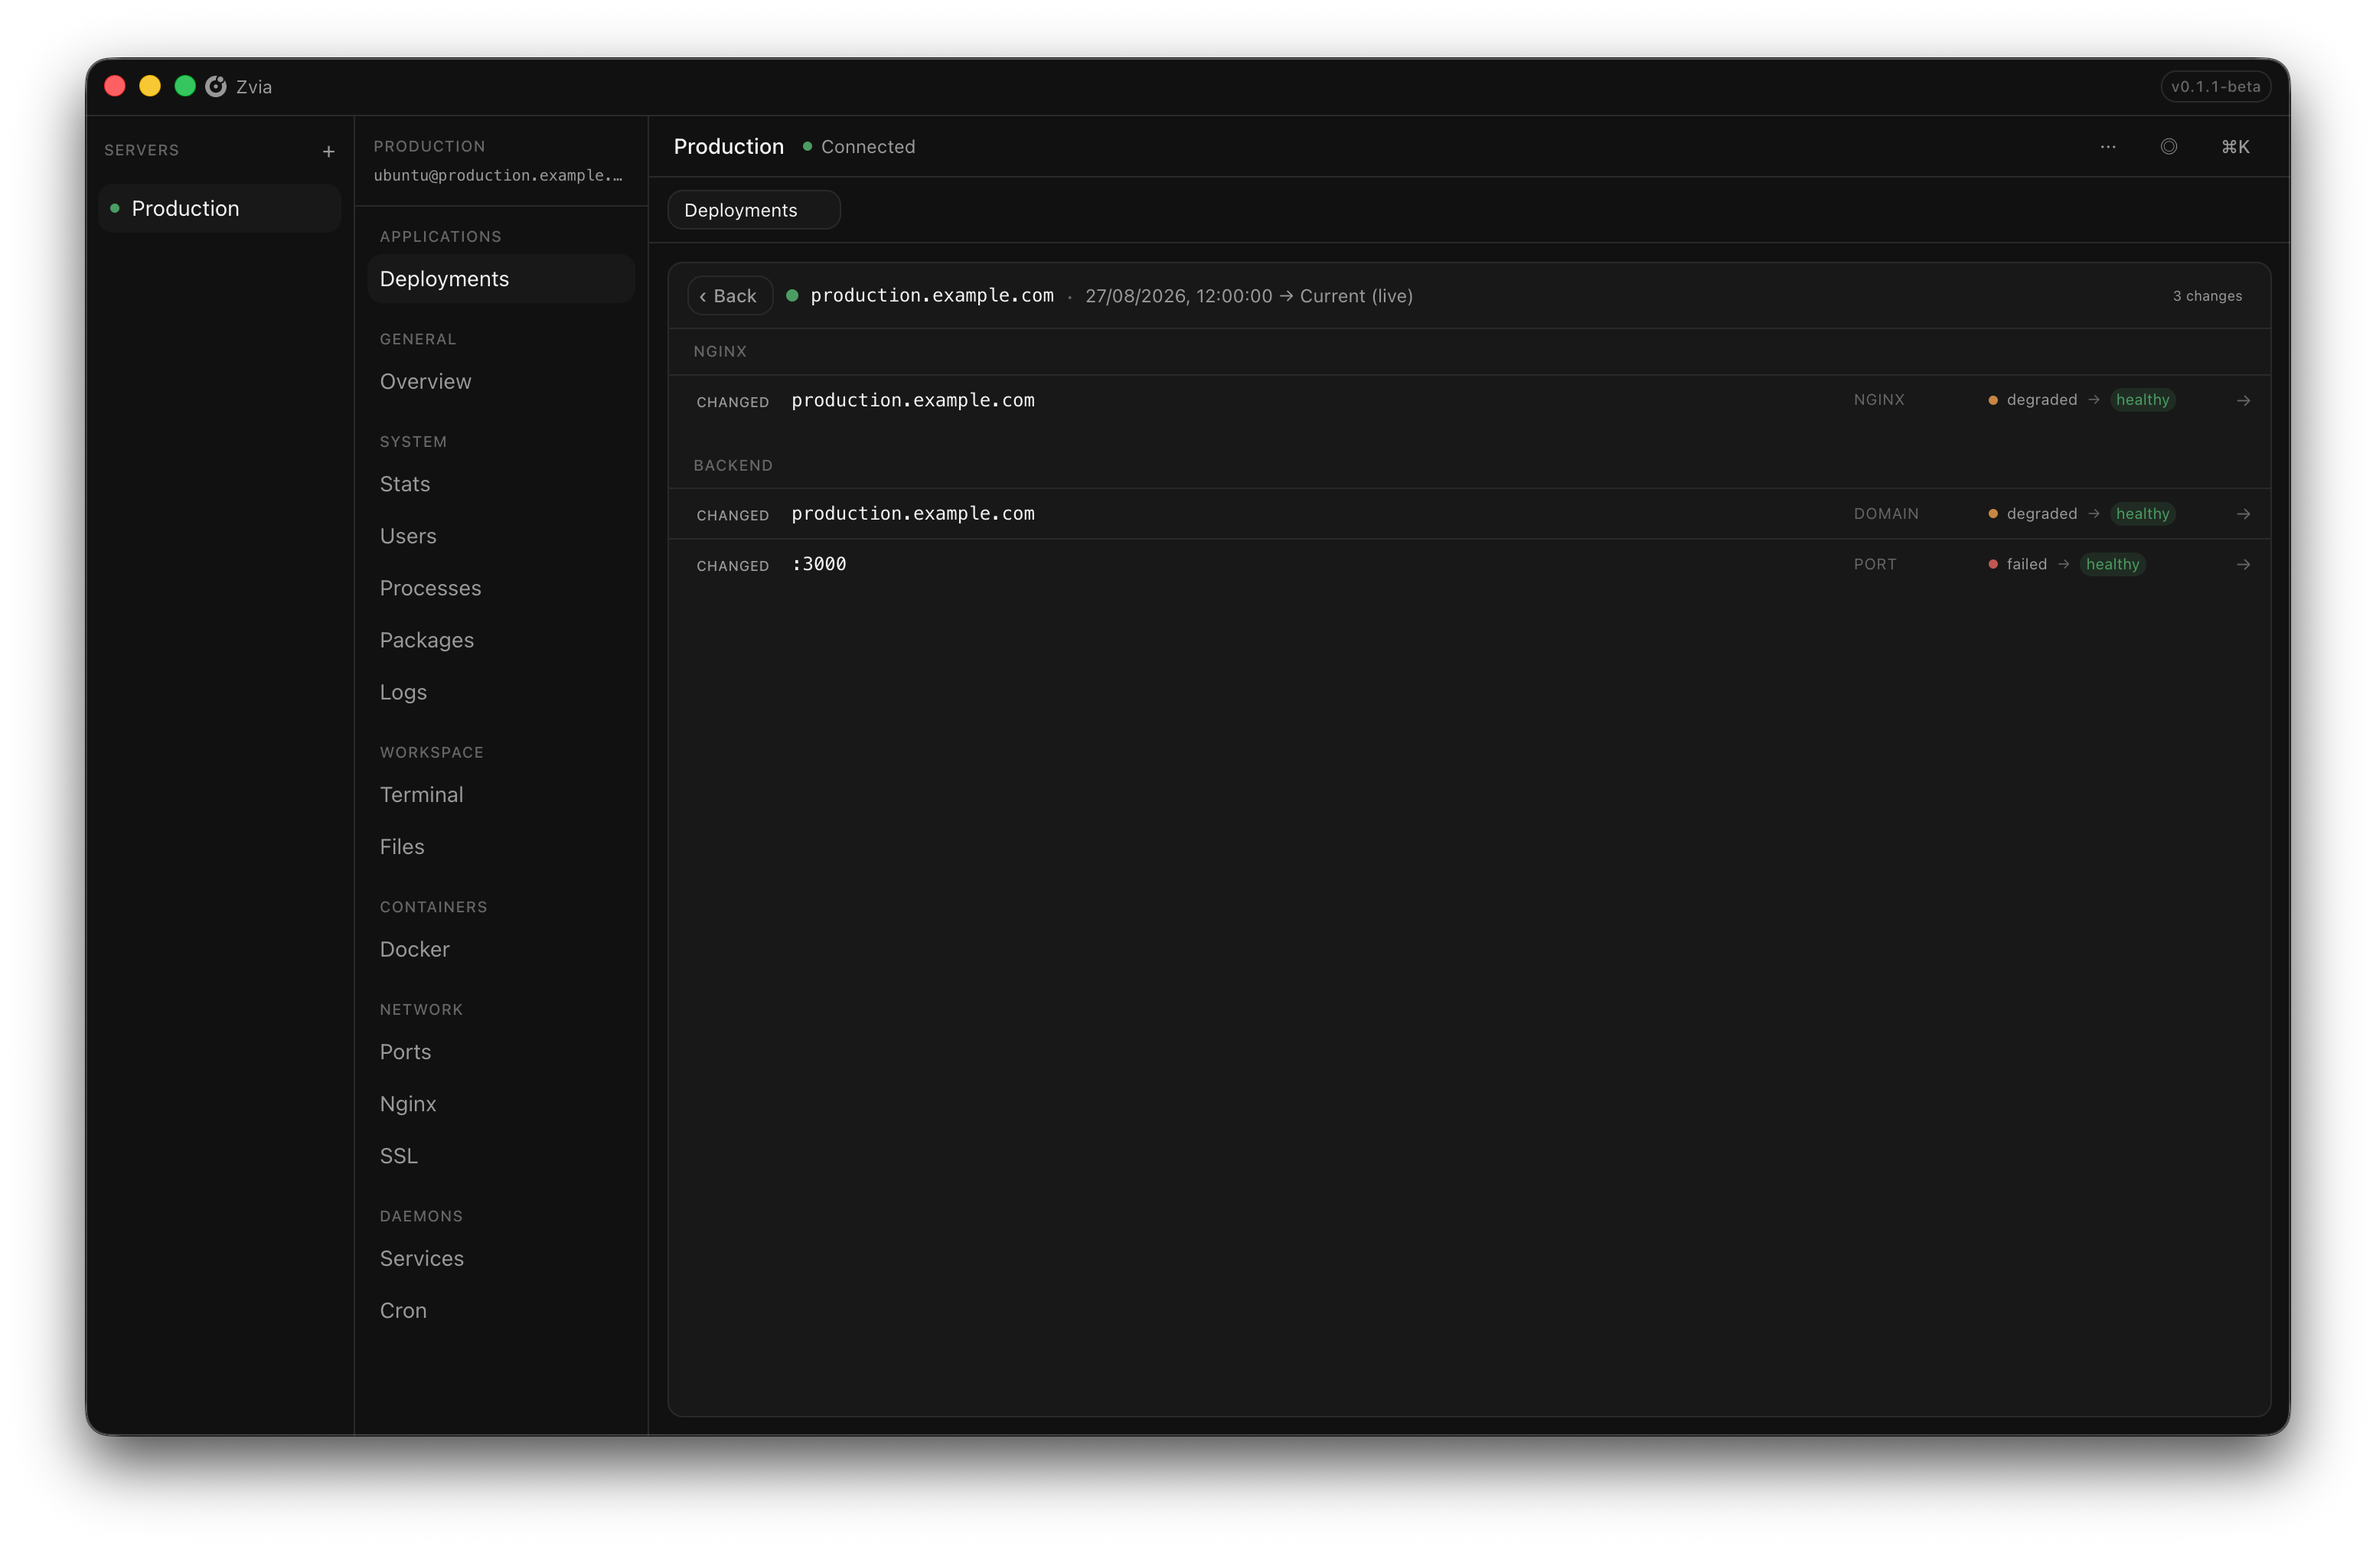
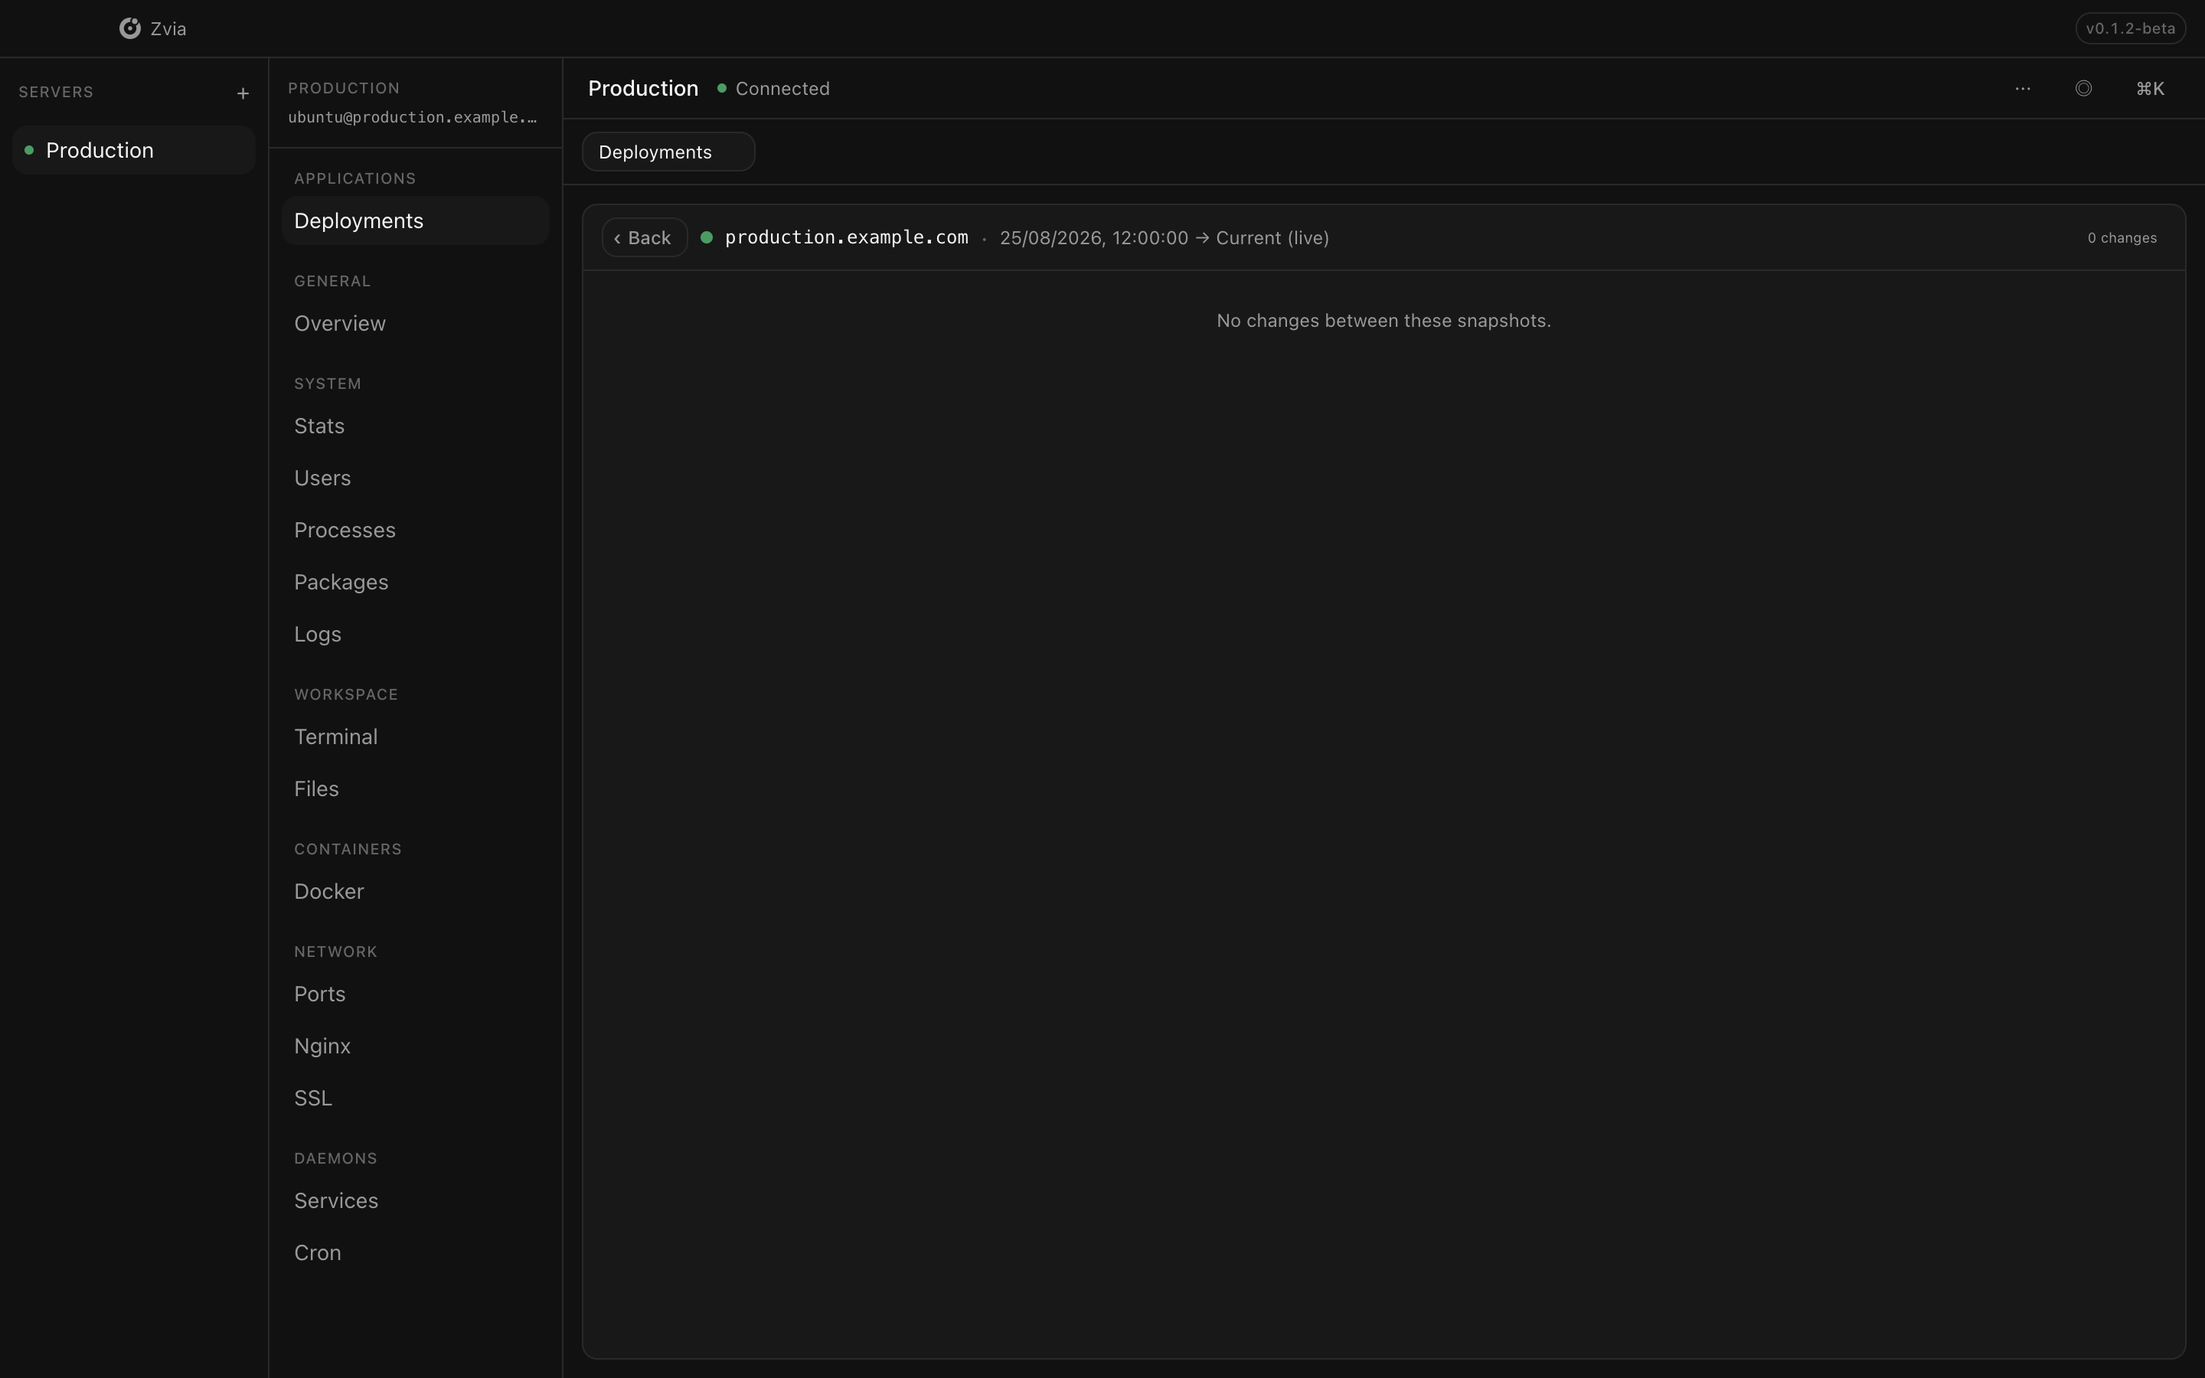
Fix landing screenshots and hide burger menu on desktop.
Regenerate snapshots/diff captures through the standard Electron pipeline and scope burger visibility to mobile in CSS.

diff --git a/app/src/renderer/screenshot/setup.ts b/app/src/renderer/screenshot/setup.ts
@@ -3,12 +3,13 @@ import { useNavigationStore } from '@renderer/state/navigationStore'
 import { useServerStore } from '@renderer/state/serverStore'
 import { useWorkspaceStore } from '@renderer/state/workspaceStore'
 import {
+  SCREENSHOT_DEPLOYMENT_ENTITY_ID,
+  SCREENSHOT_DEPLOYMENT_ID,
+  SCREENSHOT_PROD_DEPLOYMENT_ID,
   SCREENSHOT_PROFILE,
-  SCREENSHOT_SERVER_ID
+  SCREENSHOT_SERVER_ID,
+  SCREENSHOT_STABLE_BASELINE_ID
 } from '@renderer/screenshot/constants'
-
-const SCREENSHOT_DEPLOYMENT_ID = 'deployment:api.production.example.com'
-const SCREENSHOT_DEPLOYMENT_ENTITY_ID = 'domain:api.production.example.com'
 
 export function setupScreenshotDemo(tool: string): void {
   document.documentElement.classList.add('dark')
@@ -26,6 +27,25 @@ export function setupScreenshotDemo(tool: string): void {
   const [toolId, view] = tool.split(':') as [ToolId, string | undefined]
 
   if (toolId === 'deployments' && view) {
+    if (view === 'snapshots') {
+      useNavigationStore.getState().openWithIntent(SCREENSHOT_SERVER_ID, {
+        tool: 'deployments',
+        deploymentId: SCREENSHOT_PROD_DEPLOYMENT_ID,
+        view: 'snapshots'
+      })
+      return
+    }
+
+    if (view === 'diff') {
+      useNavigationStore.getState().openWithIntent(SCREENSHOT_SERVER_ID, {
+        tool: 'deployments',
+        deploymentId: SCREENSHOT_PROD_DEPLOYMENT_ID,
+        view: 'diff',
+        baselineId: SCREENSHOT_STABLE_BASELINE_ID
+      })
+      return
+    }
+
     useNavigationStore.getState().openWithIntent(SCREENSHOT_SERVER_ID, {
       tool: 'deployments',
       deploymentId: SCREENSHOT_DEPLOYMENT_ID,

diff --git a/app/src/main/screenshotCapture.ts b/app/src/main/screenshotCapture.ts
@@ -6,7 +6,15 @@ import { getScreenshotTool, isScreenshotMode } from './screenshotMode'
 const CAPTURE_WIDTH = 1440
 const CAPTURE_HEIGHT = 900
 const SETTLE_MS = 2500
+const SETTLE_MS_SLOW = 4000
 const MOUNT_DELAY_MS = 750
+
+function settleMsForTool(tool: string): number {
+  if (tool === 'deployments:diff' || tool === 'deployments:snapshots') {
+    return SETTLE_MS_SLOW
+  }
+  return SETTLE_MS
+}
 
 export function configureScreenshotWindow(window: BrowserWindow): void {
   if (!isScreenshotMode()) return
@@ -28,11 +36,12 @@ export async function captureScreenshotIfReady(window: BrowserWindow): Promise<v
   }
 
   const tool = getScreenshotTool()
+  const settleMs = settleMsForTool(tool)
 
   await new Promise<void>((resolve, reject) => {
     const timeout = setTimeout(() => {
       reject(new Error('Screenshot capture timed out'))
-    }, SETTLE_MS + MOUNT_DELAY_MS + 5000)
+    }, settleMs + MOUNT_DELAY_MS + 5000)
 
     window.webContents.once('did-finish-load', () => {
       setTimeout(() => {
@@ -46,7 +55,7 @@ export async function captureScreenshotIfReady(window: BrowserWindow): Promise<v
     })
   })
 
-  await new Promise((resolve) => setTimeout(resolve, SETTLE_MS))
+  await new Promise((resolve) => setTimeout(resolve, settleMs))
 
   const image = await window.webContents.capturePage()
   writeFileSync(outputPath, image.toPNG())

diff --git a/app/src/renderer/tools/deployments/DeploymentsPanel.tsx b/app/src/renderer/tools/deployments/DeploymentsPanel.tsx
@@ -45,9 +45,25 @@ export function DeploymentsPanel() {
   }, [serverId])
 
   useEffect(() => {
-    if (!deploymentsState.snapshot) return
+    if (!deploymentsState.snapshot || !intent) return
 
-    if (intent?.deploymentId) {
+    if (intent.view === 'snapshots' && intent.deploymentId) {
+      setSelectedDeployment(null)
+      setDiffDeploymentId(null)
+      setDiffRequest(null)
+      setSnapshotsDeploymentId(intent.deploymentId)
+      return
+    }
+
+    if (intent.view === 'diff' && intent.deploymentId && intent.baselineId) {
+      setSelectedDeployment(null)
+      setSnapshotsDeploymentId(null)
+      setDiffDeploymentId(intent.deploymentId)
+      setDiffRequest({ type: 'live', baselineId: intent.baselineId })
+      return
+    }
+
+    if (intent.deploymentId) {
       const match = deploymentsState.snapshot.deployments.find(
         (deployment) => deployment.id === intent.deploymentId
       )
@@ -55,7 +71,7 @@ export function DeploymentsPanel() {
       return
     }
 
-    if (intent?.entityId) {
+    if (intent.entityId) {
       const match = deploymentsState.snapshot.deployments.find((deployment) =>
         deployment.entityIds.includes(intent.entityId!)
       )

diff --git a/app/src/renderer/screenshot/constants.ts b/app/src/renderer/screenshot/constants.ts
@@ -10,3 +10,9 @@ export const SCREENSHOT_PROFILE: ServerProfile = {
   port: 22,
   auth: { type: 'ssh-agent' }
 }
+
+export const SCREENSHOT_DEPLOYMENT_ID = 'deployment:api.production.example.com'
+export const SCREENSHOT_DEPLOYMENT_ENTITY_ID = 'domain:api.production.example.com'
+export const SCREENSHOT_PROD_DEPLOYMENT_ID = 'deployment:production.example.com'
+/** Stable-tagged snapshot in screenshot demo history (see screenshotMode demoHistory). */
+export const SCREENSHOT_STABLE_BASELINE_ID = '2026-08-25T10:00:00.000Z'

diff --git a/app/src/renderer/state/navigationStore.ts b/app/src/renderer/state/navigationStore.ts
@@ -21,7 +21,7 @@ export type ToolIntent =
   | { tool: 'users'; username?: string }
   | { tool: 'processes'; pid?: number }
   | { tool: 'packages'; packageName?: string; view?: 'installed' | 'updates' | 'search' }
-  | { tool: 'deployments'; deploymentId?: string; entityId?: string }
+  | { tool: 'deployments'; deploymentId?: string; entityId?: string; view?: 'snapshots' | 'diff'; baselineId?: string }
   | { tool: 'docker'; containerId?: string }
 
 function intentToToolId(intent: ToolIntent): ToolId {

diff --git a/landing/src/components/Header.tsx b/landing/src/components/Header.tsx
@@ -79,7 +79,7 @@ export function Header() {
 
           <button
             type="button"
-            className={`burger flex flex-col md:hidden${mobileOpen ? ' burger--open' : ''}`}
+            className={`burger${mobileOpen ? ' burger--open' : ''}`}
             aria-label="Toggle navigation menu"
             aria-expanded={mobileOpen}
             aria-controls="mobile-menu"

diff --git a/landing/src/styles/landing.css b/landing/src/styles/landing.css
@@ -1378,11 +1378,19 @@
 }
 
 .burger {
+  display: flex;
+  flex-direction: column;
   gap: 5px;
   padding: 0.5rem;
   background: transparent;
   border: none;
   cursor: pointer;
+}
+
+@media (min-width: 768px) {
+  .burger {
+    display: none;
+  }
 }
 
 .burger-line {
